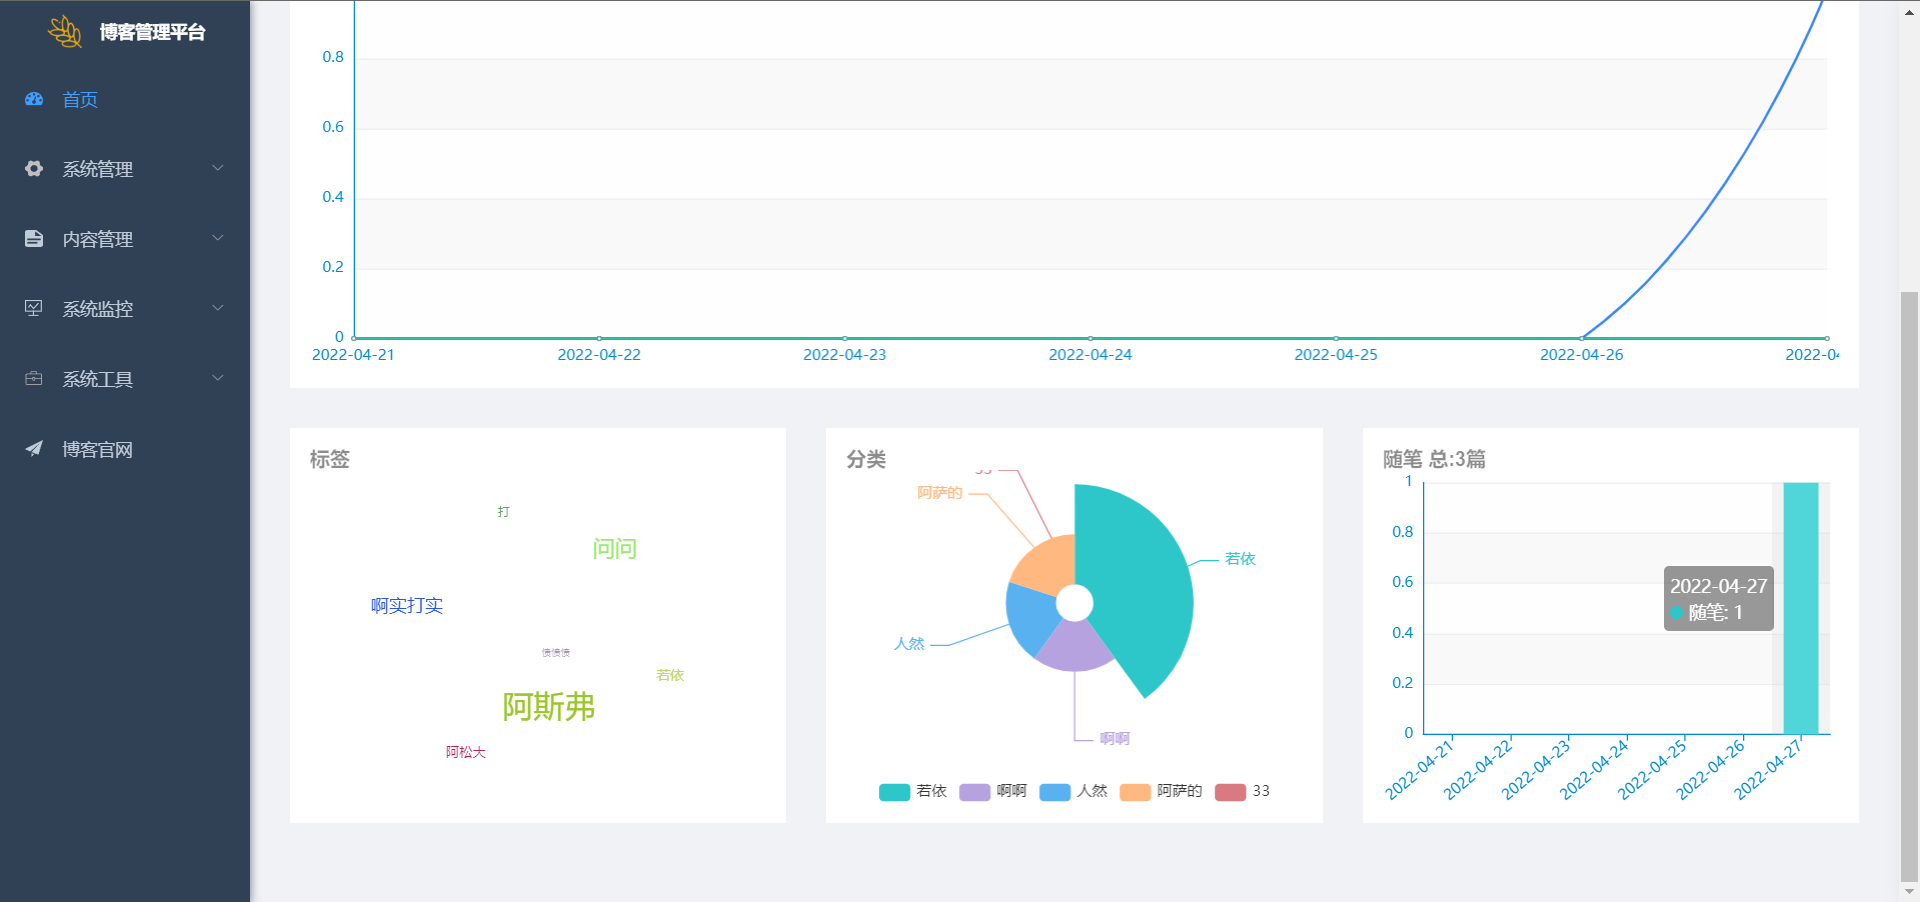
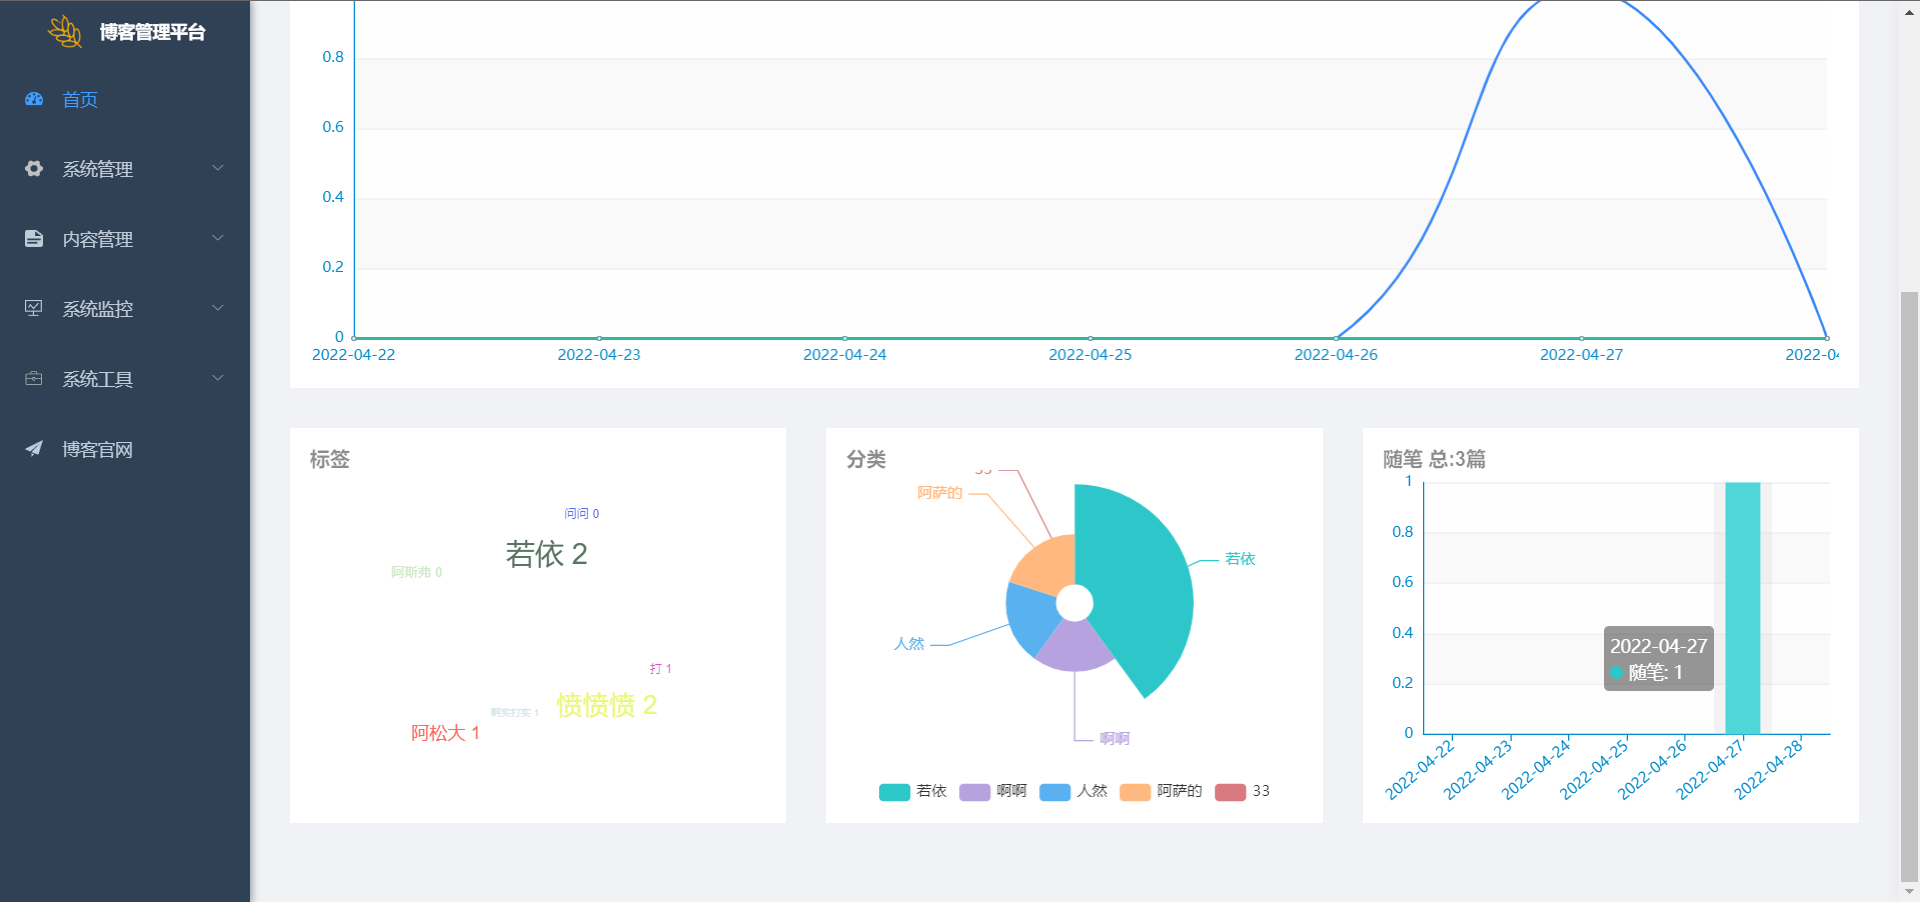
修改后台管理首页内容

diff --git a/ruoyi-cms/src/main/java/com/ruoyi/cms/charts/controller/ChartController.java b/ruoyi-cms/src/main/java/com/ruoyi/cms/charts/controller/ChartController.java
@@ -7,7 +7,6 @@ package com.ruoyi.cms.charts.controller;
  */
 
 import com.ruoyi.cms.blog.domain.CmsBlog;
-import com.ruoyi.cms.blog.service.ICmsBlogService;
 import com.ruoyi.cms.charts.service.IChartService;
 import com.ruoyi.cms.comment.domain.CmsComment;
 import com.ruoyi.cms.comment.service.ICmsCommentService;
@@ -208,7 +207,7 @@ public class ChartController extends BaseController {
         }
         List<CmsTag> list = cmsTagService.selectCmsTagList(cmsTag);
         for (CmsTag cTag : list) {
-            tag.add(cTag.getTagName());
+            tag.add(cTag.getTagName()+" "+String.valueOf(cTag.getBlogNum()));
         }
         tagChart.put("tag", tag);
         return tagChart;
